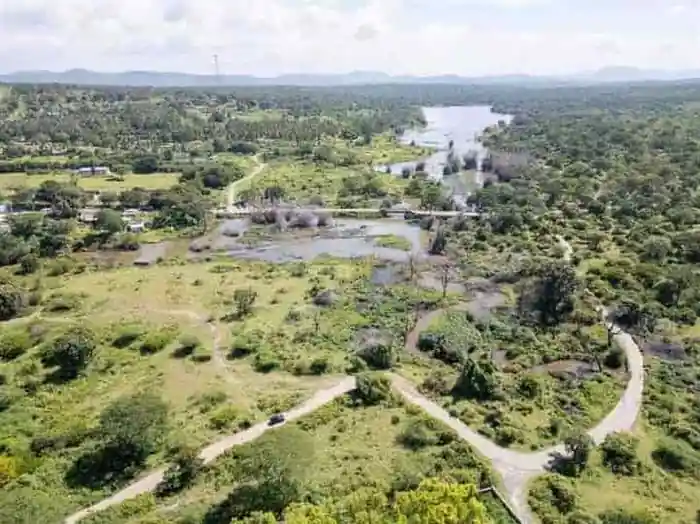
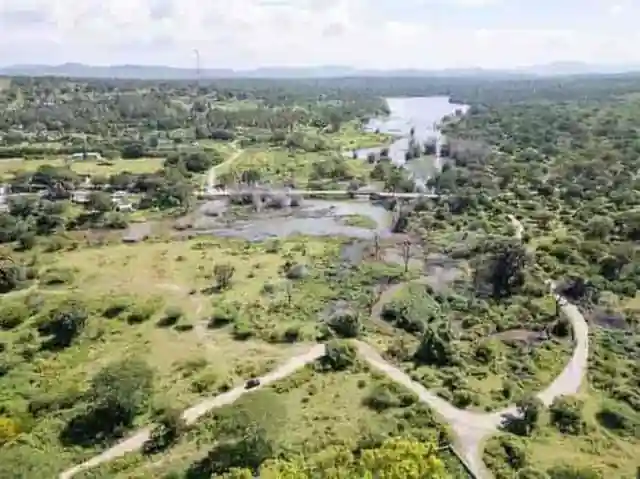
perf: serve next-gen 13KB AVIF and 20KB WebP for hero image

diff --git a/src/components/home/HeroSection.jsx b/src/components/home/HeroSection.jsx
@@ -6,8 +6,9 @@ export default function HeroSection({ onOpenBooking }) {
 
   return (
     <section className="relative min-h-[80vh] sm:min-h-[85vh] flex items-center justify-center pt-28 pb-16 sm:pt-32 sm:pb-24 px-4 sm:px-8 bg-[#061727]">
-      {/* Background Image: Modern WebP with optimized JPEG fallback directly visible to browser engine */}
+      {/* Background Image: Next-gen AVIF/WebP with optimized JPEG fallback */}
       <picture className="absolute inset-0 w-full h-full">
+        <source type="image/avif" srcSet="/assets/images/image-45.avif" />
         <source type="image/webp" srcSet="/assets/images/image-45.webp" />
         <img
           src="/assets/images/image-45.jpeg"
@@ -16,8 +17,8 @@ export default function HeroSection({ onOpenBooking }) {
           fetchPriority="high"
           loading="eager"
           decoding="sync"
-          width="800"
-          height="599"
+          width="640"
+          height="479"
         />
       </picture>
 

diff --git a/index.html b/index.html
@@ -39,12 +39,12 @@
     <meta name="twitter:site" content="@OmMurugaTravels" />
     <meta name="twitter:creator" content="@OmMurugaTravels" />
 
-    <!-- Preload Critical LCP Hero Image (Modern WebP format <80KB for instantaneous discovery) -->
+    <!-- Preload Critical LCP Hero Image (Next-Gen AVIF format ~13KB for instantaneous discovery) -->
     <link 
       rel="preload" 
       as="image" 
-      type="image/webp"
-      href="/assets/images/image-45.webp" 
+      type="image/avif"
+      href="/assets/images/image-45.avif" 
       fetchpriority="high"
     />
 
